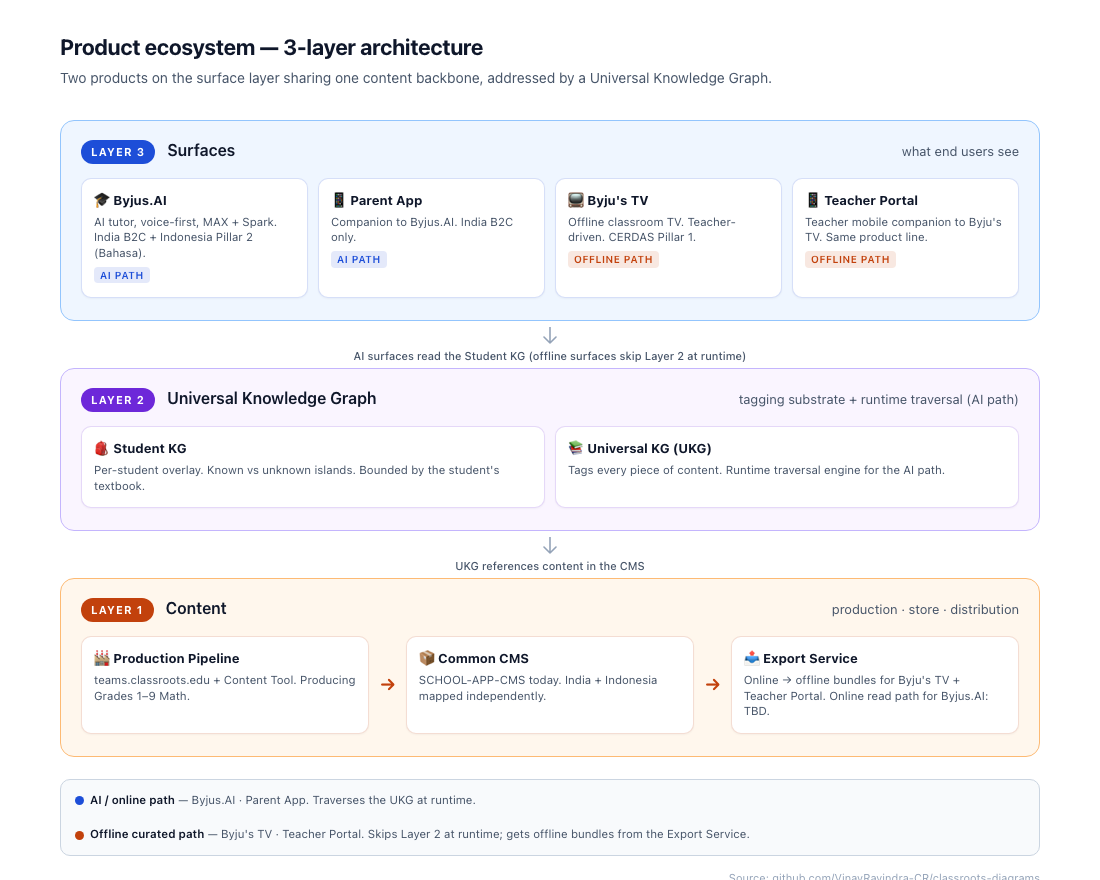
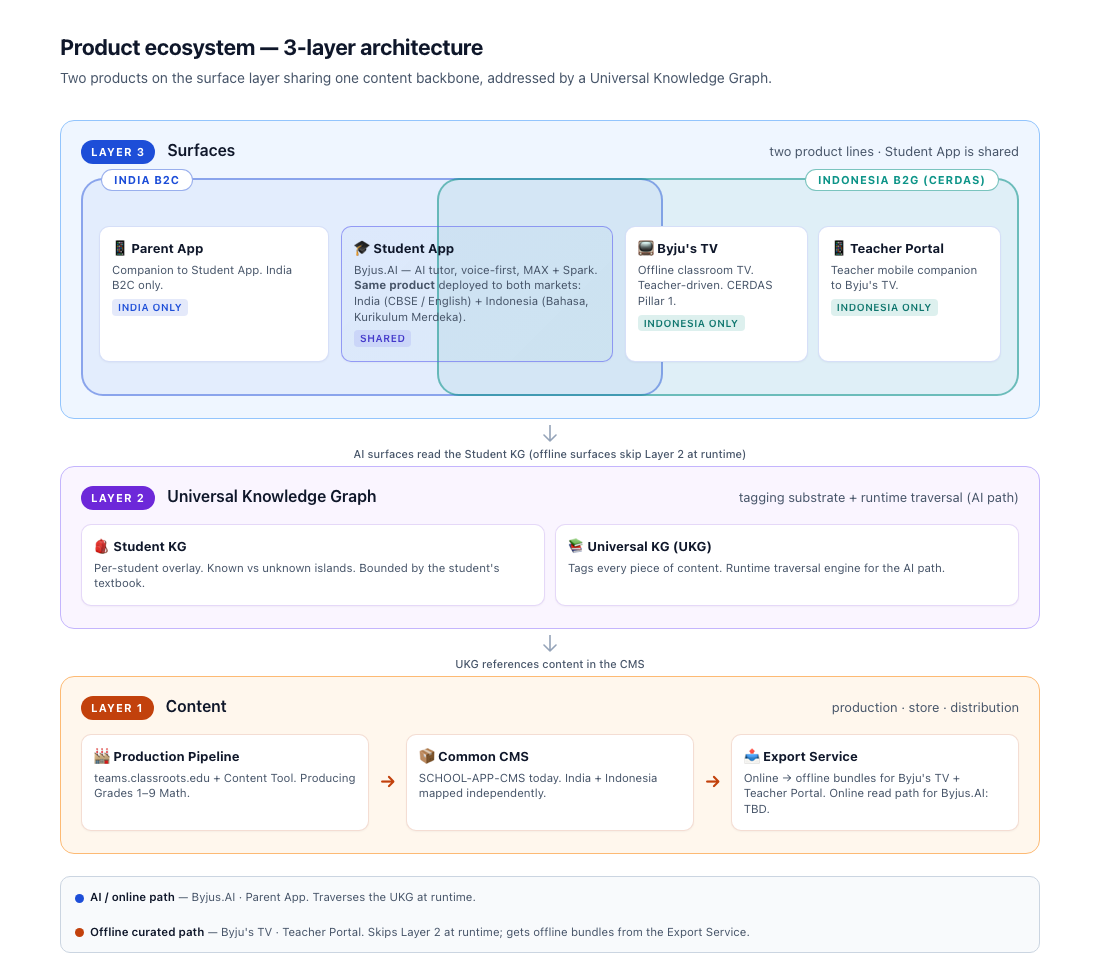
Layer 3: Venn — India B2C and Indonesia B2G with shared Student App

Changed region(s): [[0.0618, 0.1227, 0.9582, 1.0], [0.0618, 0.0307, 0.7109, 0.092], [0.3709, 0.7364, 0.5873, 0.8284]]

diff --git a/ecosystem-3-layer.html b/ecosystem-3-layer.html
@@ -98,10 +98,84 @@
     gap: 10px;
   }
 
-  /* Layer 3: 4 surfaces */
-  .layer-3 .boxes {
-    grid-template-columns: repeat(4, 1fr);
+  /* Layer 3: Venn — India B2C and Indonesia B2G overlap on Student App */
+  .layer-3 .venn {
+    position: relative;
+    padding: 26px 0 12px;
   }
+  /* Two overlapping rounded-rectangle "product line" backgrounds */
+  .product-line {
+    position: absolute;
+    top: 0; bottom: 0;
+    border: 2px solid;
+    border-radius: 22px;
+    pointer-events: none;
+  }
+  .product-line.india {
+    left: 0;
+    right: 38%;
+    background: rgba(29, 78, 216, 0.06);
+    border-color: rgba(29, 78, 216, 0.45);
+    z-index: 1;
+  }
+  .product-line.indonesia {
+    left: 38%;
+    right: 0;
+    background: rgba(13, 148, 136, 0.07);
+    border-color: rgba(13, 148, 136, 0.55);
+    z-index: 1;
+  }
+  .product-line .pl-label {
+    position: absolute;
+    top: -11px;
+    background: white;
+    padding: 2px 12px;
+    border-radius: 999px;
+    font-size: 11px;
+    font-weight: 700;
+    letter-spacing: 0.08em;
+    text-transform: uppercase;
+  }
+  .product-line.india .pl-label {
+    left: 18px;
+    color: rgba(29, 78, 216, 1);
+    border: 1.5px solid rgba(29, 78, 216, 0.45);
+  }
+  .product-line.indonesia .pl-label {
+    right: 18px;
+    color: rgba(13, 148, 136, 1);
+    border: 1.5px solid rgba(13, 148, 136, 0.55);
+  }
+
+  /* Card row — three zones */
+  .venn-grid {
+    position: relative;
+    z-index: 2;
+    display: grid;
+    grid-template-columns: 1.1fr 1.3fr 1.8fr;
+    gap: 12px;
+    padding: 22px 18px;
+  }
+  .venn-cell {
+    display: grid;
+    grid-auto-rows: 1fr;
+    gap: 10px;
+  }
+  .venn-cell.right {
+    grid-template-columns: 1fr 1fr;
+  }
+  .venn-cell.center .box {
+    border: 1.5px solid;
+    border-image: linear-gradient(135deg, rgba(29, 78, 216, 0.5), rgba(13, 148, 136, 0.55)) 1;
+    border-radius: 0;
+    background: linear-gradient(135deg, rgba(29, 78, 216, 0.03), rgba(13, 148, 136, 0.04));
+  }
+  .venn-cell.center .box {
+    border-radius: 10px;
+    border: 1.5px solid rgba(99, 102, 241, 0.6);
+  }
+  .box-tag.shared { background: rgba(99, 102, 241, 0.14); color: #4338ca; }
+  .box-tag.indonesia { background: rgba(13, 148, 136, 0.14); color: #0f766e; }
   /* Layer 2: 2 graphs */
   .layer-2 .boxes {
     grid-template-columns: 1fr 1fr;
@@ -226,33 +300,54 @@
 <h1>Product ecosystem — 3-layer architecture</h1>
 <p class="subtitle">Two products on the surface layer sharing one content backbone, addressed by a Universal Knowledge Graph.</p>
 
-<!-- LAYER 3: Surfaces -->
+<!-- LAYER 3: Surfaces (Venn — two product lines, shared Student App) -->
 <div class="layer layer-3">
   <div class="layer-head">
     <span class="layer-tag">Layer 3</span>
     <h2 class="layer-title">Surfaces</h2>
-    <span class="layer-sub">what end users see</span>
+    <span class="layer-sub">two product lines · Student App is shared</span>
   </div>
-  <div class="boxes">
-    <div class="box">
-      <div class="box-title">🎓 Byjus.AI</div>
-      <div class="box-desc">AI tutor, voice-first, MAX + Spark. India B2C + Indonesia Pillar 2 (Bahasa).</div>
-      <span class="box-tag ai">AI path</span>
+
+  <div class="venn">
+    <div class="product-line india">
+      <span class="pl-label">India B2C</span>
     </div>
-    <div class="box">
-      <div class="box-title">📱 Parent App</div>
-      <div class="box-desc">Companion to Byjus.AI. India B2C only.</div>
-      <span class="box-tag ai">AI path</span>
+    <div class="product-line indonesia">
+      <span class="pl-label">Indonesia B2G (CERDAS)</span>
     </div>
-    <div class="box">
-      <div class="box-title">📺 Byju's TV</div>
-      <div class="box-desc">Offline classroom TV. Teacher-driven. CERDAS Pillar 1.</div>
-      <span class="box-tag offline">Offline path</span>
-    </div>
-    <div class="box">
-      <div class="box-title">📱 Teacher Portal</div>
-      <div class="box-desc">Teacher mobile companion to Byju's TV. Same product line.</div>
-      <span class="box-tag offline">Offline path</span>
+
+    <div class="venn-grid">
+      <!-- India-only zone -->
+      <div class="venn-cell">
+        <div class="box">
+          <div class="box-title">📱 Parent App</div>
+          <div class="box-desc">Companion to Student App. India B2C only.</div>
+          <span class="box-tag ai">India only</span>
+        </div>
+      </div>
+
+      <!-- Shared overlap zone -->
+      <div class="venn-cell center">
+        <div class="box">
+          <div class="box-title">🎓 Student App</div>
+          <div class="box-desc">Byjus.AI — AI tutor, voice-first, MAX + Spark. <b>Same product</b> deployed to both markets: India (CBSE / English) + Indonesia (Bahasa, Kurikulum Merdeka).</div>
+          <span class="box-tag shared">Shared</span>
+        </div>
+      </div>
+
+      <!-- Indonesia-only zone -->
+      <div class="venn-cell right">
+        <div class="box">
+          <div class="box-title">📺 Byju's TV</div>
+          <div class="box-desc">Offline classroom TV. Teacher-driven. CERDAS Pillar 1.</div>
+          <span class="box-tag indonesia">Indonesia only</span>
+        </div>
+        <div class="box">
+          <div class="box-title">📱 Teacher Portal</div>
+          <div class="box-desc">Teacher mobile companion to Byju's TV.</div>
+          <span class="box-tag indonesia">Indonesia only</span>
+        </div>
+      </div>
     </div>
   </div>
 </div>